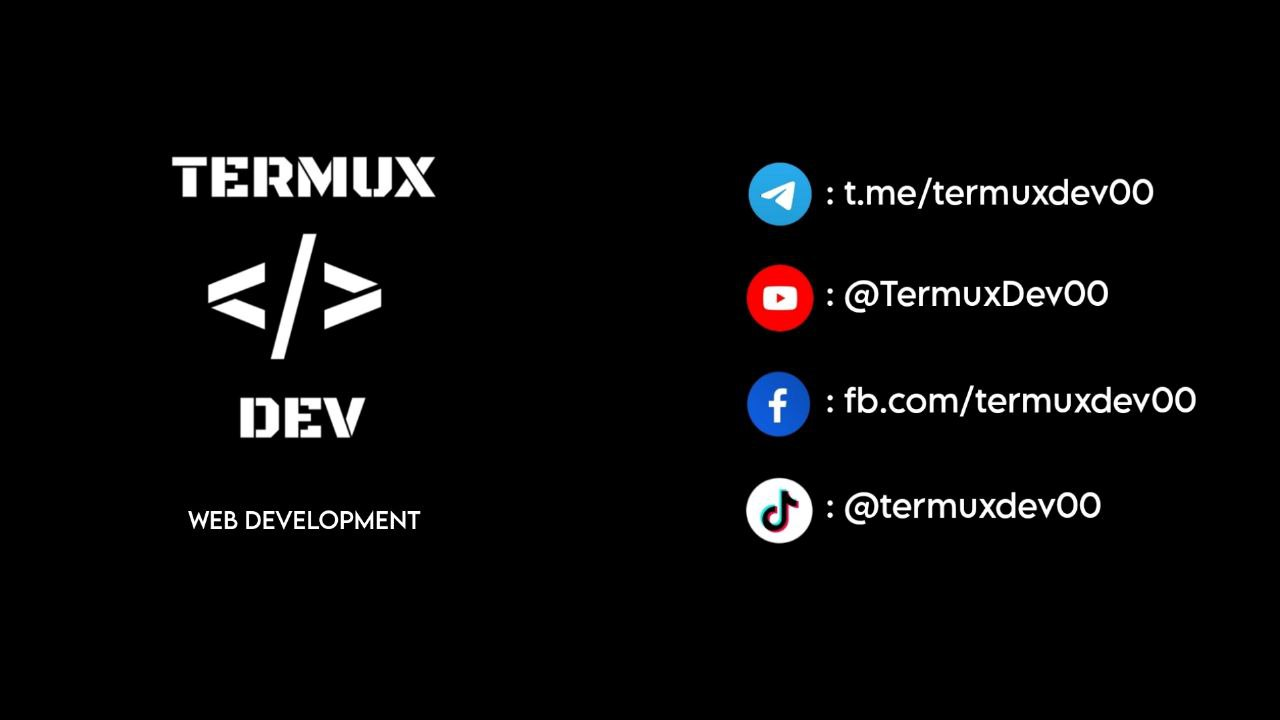
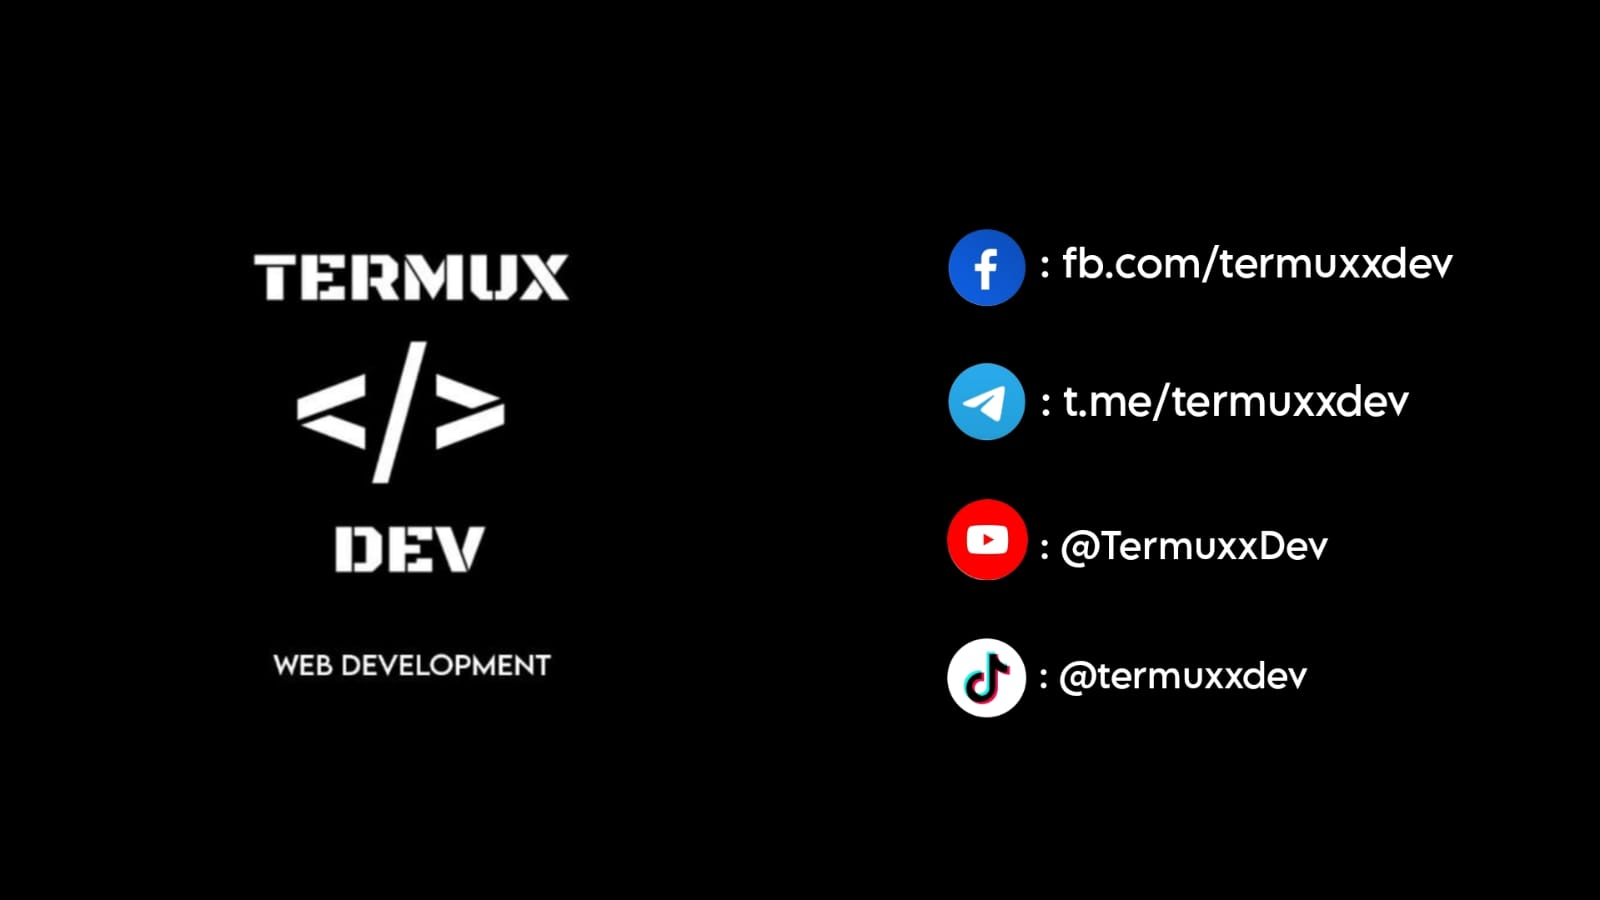
Edit: README.md

diff --git a/README.md b/README.md
@@ -32,9 +32,9 @@
 </ul>
 <h1 align="left">Follow me</h1>
 <p align="left">
-  <a href="https://youtube.com/@TermuxDev00"><img alt="YouTube" src="https://img.shields.io/badge/YouTube-%23c4302b"></a>
-  <a href="https://tiktok.com/@termuxdev00"><img alt="TikTok" src="https://img.shields.io/badge/TikTok-black"></a>
-  <a href="https://t.me/termuxdev00"><img alt="Telegram" src="https://img.shields.io/badge/Telegram-%23229ED9"></a>
-  <a href="https://www.facebook.com/termuxdev00"><img alt="Facebook" src="https://img.shields.io/badge/Facebook-%233b5998"></a>
+  <a href="https://youtube.com/@TermuxxDev"><img alt="YouTube" src="https://img.shields.io/badge/YouTube-%23c4302b"></a>
+  <a href="https://tiktok.com/@termuxxdev"><img alt="TikTok" src="https://img.shields.io/badge/TikTok-black"></a>
+  <a href="https://t.me/termuxxdev"><img alt="Telegram" src="https://img.shields.io/badge/Telegram-%23229ED9"></a>
+  <a href="https://www.facebook.com/termuxxdev"><img alt="Facebook" src="https://img.shields.io/badge/Facebook-%233b5998"></a>
 </p>
 <h5 align="left">TERMUX DEV © 2024</h1>
